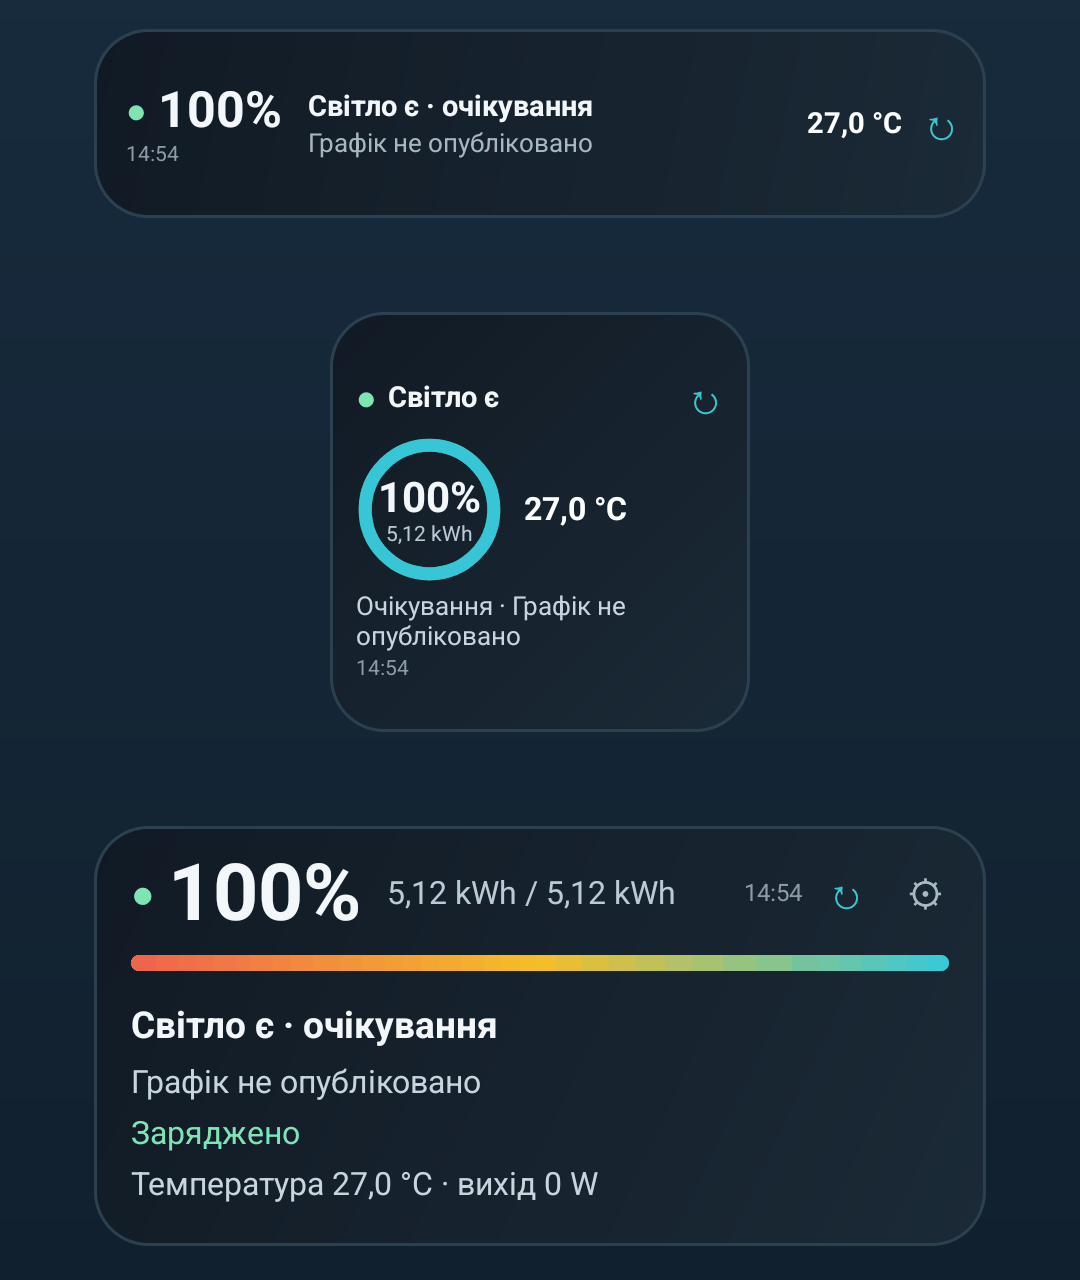
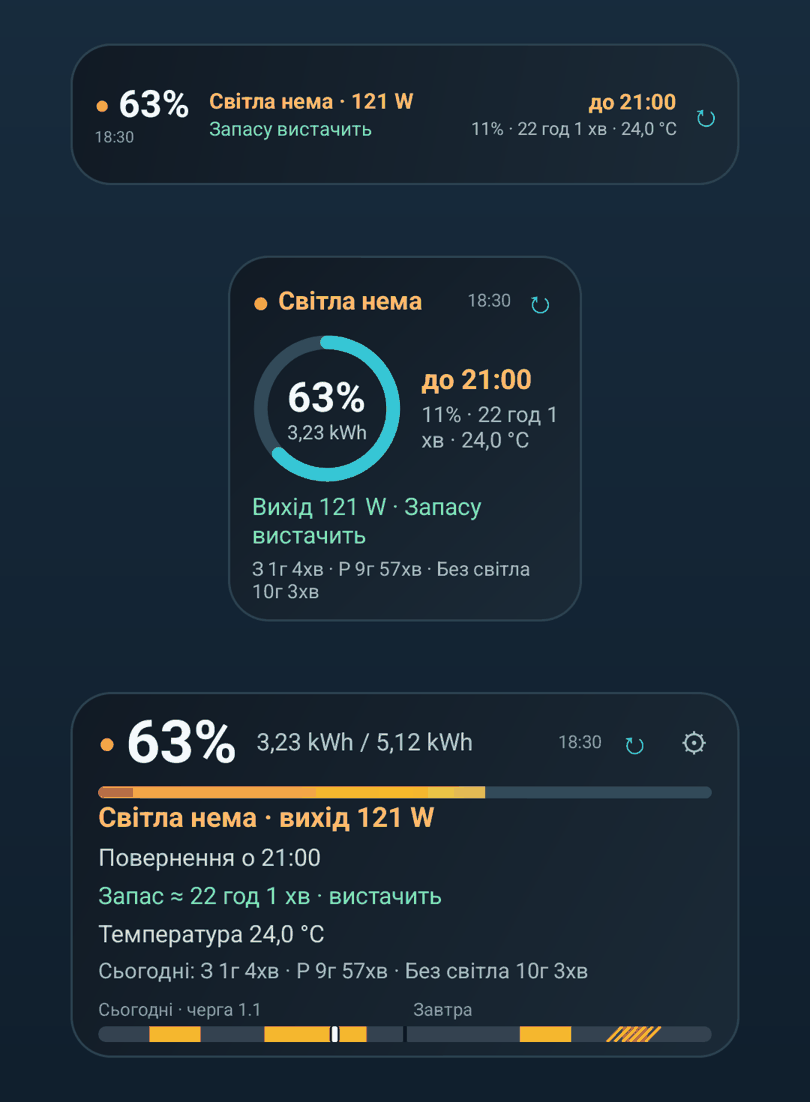
docs 1.2.0: journal, today durations, reserve math, light detection only by backup output (router only keeps data flowing), new screenshots

diff --git a/README.md b/README.md
@@ -26,8 +26,8 @@
 |---|---|---|
 | ![Налаштування](docs/img/windows-setup.png) | ![Дашборд](docs/img/windows-dashboard.png) | ![Значки](docs/img/windows-tray-icons.png) |
 
-- **Значок у треї** показує заряд у %, колір — стан: зелений — заряджається, жовтий — розряджається, червоний — світла немає, синій — очікування, сірий — немає даних. Підказка: заряд, kWh, світло, час до 100% / 0%.
-- **Меню**: Відкрити дашборд · Налаштування · Запускати з Windows · Доступ для телефона (адреса, токен, QR) · Про програму · Вийти.
+- **Значок у треї** показує заряд у %, колір — стан: зелений — заряджається, жовтий — розряджається, червоний — світла немає (за резервним виходом), синій — очікування, сірий — немає зв'язку / даних (світло тоді невідоме). Підказка: заряд, kWh, світло, час до 100% / 0%.
+- **Меню**: Відкрити дашборд · Журнал подій · Налаштування · Запускати з Windows · Доступ для телефона (адреса, токен, QR) · Про програму · Вийти.
 - **Перший запуск**: «Знайти батарею» (широкомовний запит + обережне сканування вашої /24 мережі), або IP вручну, «Перевірити з'єднання», регіон і черга, поріг резервного виходу, середнє споживання. Зміни застосовуються без перезапуску.
 - **Сповіщення Windows**: світло зникло/повернулось, відключення через 60 і 15 хв, запасу не вистачить, заряд 20% / 10%, заряджання почалось / завершено, температура, немає зв'язку (лише після 3 невдалих опитувань поспіль). Кожне вмикається окремо.
 - Дашборд слухає лише `127.0.0.1`; «Доступ для телефона» відкриває його в домашній мережі **тільки з токеном**. Налаштування — `%APPDATA%\MarstekVenusMonitor`, історія й журнали — `%LOCALAPPDATA%\MarstekVenusMonitor`.
@@ -60,8 +60,12 @@ Venus E ──UDP JSON-RPC (Open API, LAN)──▶ server/ (Python, ПК/RPi/NA
 
 ## Що вміє
 
-- **Заряд, запас kWh, температура, потоки** мережа ↔ батарея ↔ резервний вихід, ETA до 100% / до 0%, графік заряду за 24 год, накопичені лічильники.
-- **Світло є / нема** — за потужністю на резервному виході батареї (якщо до нього підключене хоч щось: роутер, ONT, лампа).
+- **Заряд, запас kWh, температура, потоки** мережа ↔ батарея ↔ резервний вихід, ETA до 100% / до резерву, накопичені лічильники. Головний екран застосунку — повний вигляд (те саме, що веб-дашборд сервера); веб-дашборд у режимі сервера відкривається з налаштувань.
+- **Світло є / нема** — **лише** за потужністю на резервному виході батареї (`ES.GetStatus.offgrid_power` вище порогу): щось на резервному виході споживає → світла нема. Втрачений зв'язок із батареєю — це «Немає зв'язку з батареєю» (стан невідомий), а не «світла нема».
+- **Скільки вистачить** (з 1.2.0): енергія **понад резерв розряду** (поріг BMS, типово 11 %, налаштовується) ÷ **виміряне навантаження резервного виходу** — «Вистачить на 22 год 0 хв · 121 Вт · світло о 23:00».
+- **Сьогодні**: скільки часу батарея заряджалась, розряджалась і скільки не було світла (з 00:00; проміжки без даних не рахуються).
+- **Графік за 24 год** з затіненими періодами без світла, позначками подій (світло зникло / повернулось, заряджання, заряджено), шкалою 25–100 % і червоною пунктирною лінією резерву; **смуга графіка відключень сьогодні + завтра** з позначкою «зараз».
+- **Журнал подій** (30 днів): світло, заряджання, зв'язок (втрачено після 3 невдалих опитувань / відновлено), **аномалії** — розрядка вище порогу (типово 2000 Вт), розряд при наявності мережі (можливий конфлікт з ДБЖ/інвертором), перегрів. Фільтр, експорт CSV / текстом, сповіщення про аномалії.
 - **Графік відключень для всіх областей**: поточне й наступне відключення вашої черги, «можливі» відключення окремо, аварійні відключення, і чи вистачить запасу батареї (і на скільки годин).
 - **Android**: головний екран, віджети 4×1, 2×2, 4×2 (і більші — 4×4, 6×3, 6×4 на планшетах), сповіщення (відключення скоро, запасу не вистачить, новий графік, світло зникло/повернулось, заряджання почалось/завершилось, велике споживання, заряд 20% / 10%, температура, дані застаріли).
 - **Планшети** (з 1.1.0): екран сам перебудовується за доступною шириною — одна колонка на телефоні, дві на планшеті в портреті, розкладному телефоні чи телефоні в ландшафті, три на планшеті в ландшафті; працює поворот і розділений екран; налаштування — центрована колонка. [Скриншот](docs/img/tablet.png).

diff --git a/docs/img/README.md b/docs/img/README.md
@@ -1,9 +1,12 @@
-Screenshots used by the README and the user manual (real data from a Venus E 3.0, direct Wi‑Fi mode):
 
-- `app-main.png` — main screen (top), direct mode.
-- `widgets.png` — 4×1, 2×2 and 4×2 widgets (debug preview, `--es showcase live`).
+Screenshots used by the README and the user manual:
+
+- `app-main.png` — main screen during an outage (debug fixture: `--es showcase outage --ez main true`).
+- `widgets.png` — 4×1, 2×2 and 4×2 widgets at Samsung cell sizes (fixture: `--es showcase outage`).
+- `journal.png` — event journal (fixture: `--ez journal true`).
+- `server-dashboard.png` — server web dashboard (fixture data, read-only).
 - `onboarding.png` — first-run screen with a discovered battery (IP blurred).
-- `server-dashboard.png` — server web dashboard, read-only.
+- `tablet.png` — main screen on a tablet in landscape (1.1.0 layout).
 
-Regenerate with the debug build: `adb shell am start -n com.doloh.marstekwidget/.debug.WidgetPreviewActivity --es showcase live`
-(widgets) or `--ez onboarding true` (welcome screen). Keep images ≤ 1080 px wide and < 400 KB; blur IP/MAC/SSID.
+Regenerate with the debug build: `adb shell am start -n com.doloh.marstekwidget/.debug.WidgetPreviewActivity …`
+(`--es showcase live` for real data, `--ez onboarding true` for the welcome screen). Keep images ≤ 1080 px wide and < 400 KB; blur IP/MAC/SSID.
